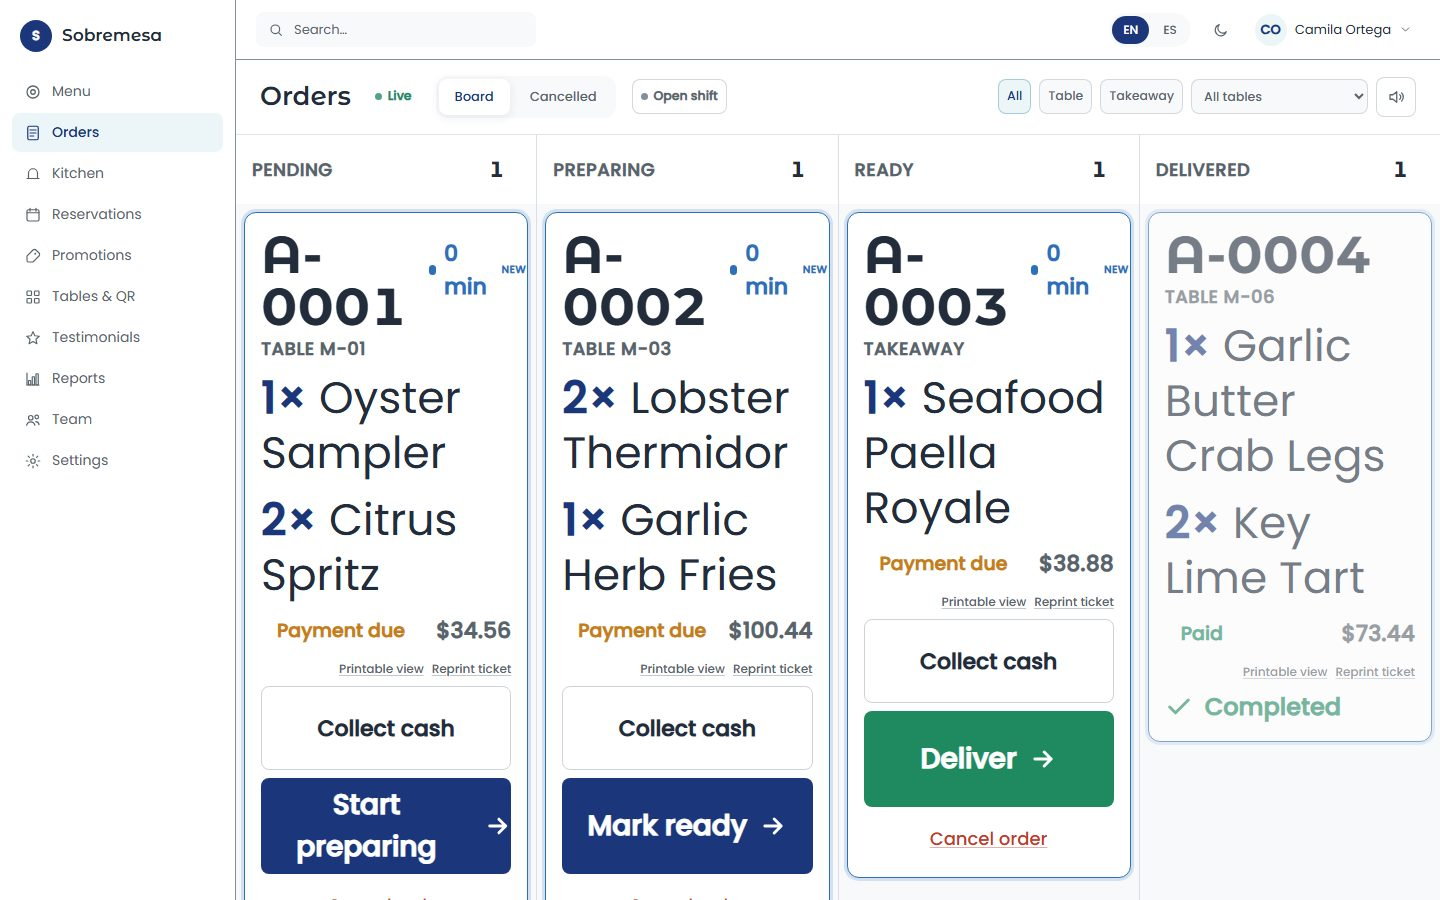
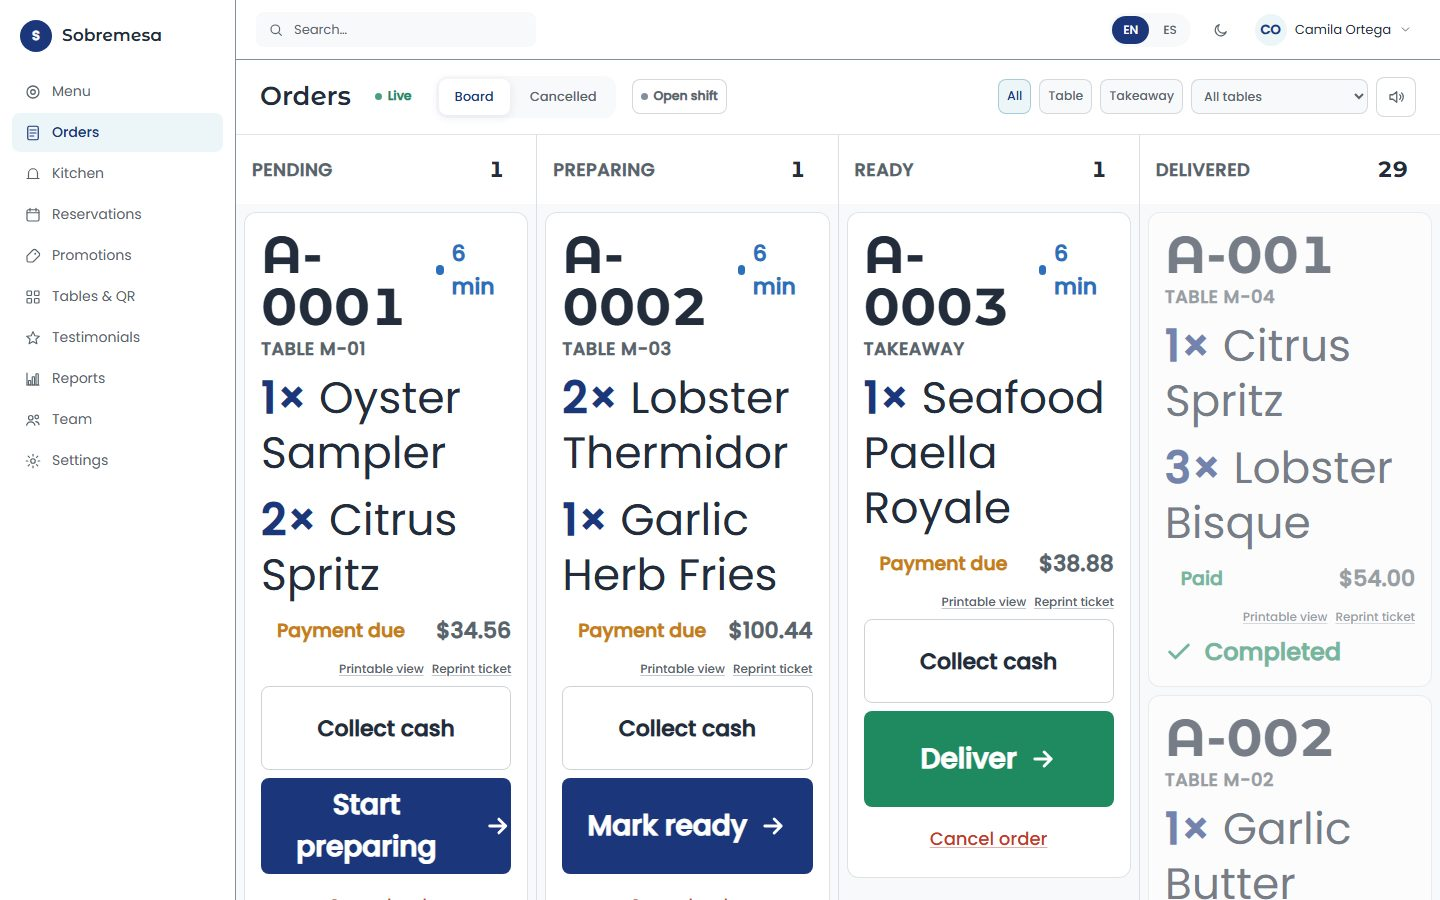
docs: retake screenshots with the demo history

diff --git a/README.md b/README.md
@@ -33,9 +33,14 @@ what can be built for a restaurant, end to end.
 <details>
 <summary>More screens</summary>
 <p align="center">
+  <img src="docs/screenshots/reservations.jpg" alt="The day's reservations" width="49%">
+  <img src="docs/screenshots/cash-close.jpg" alt="Cash shift history" width="49%">
   <img src="docs/screenshots/kitchen.jpg" alt="The kitchen display" width="70%">
   <img src="docs/screenshots/menu-phone.jpg" alt="Ordering from the phone" width="25%">
 </p>
+
+The demo data is six weeks of generated orders, payments, cash shifts and
+reservations (`prisma/seed-history.ts`), the same every night.
 </details>
 
 ## What it does
